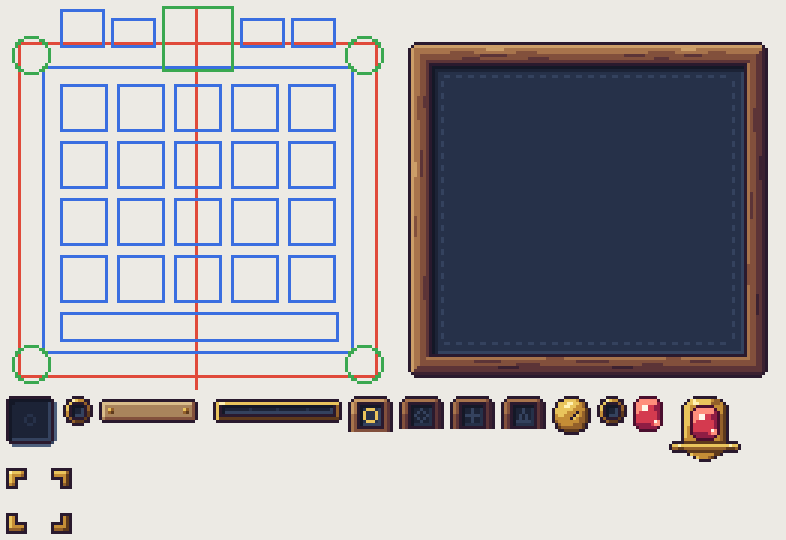
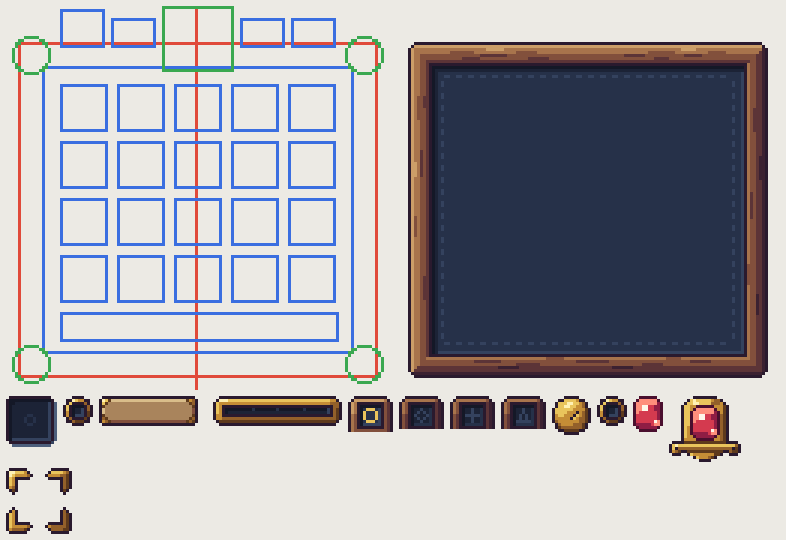
Inventaire : rebords dorés en moulure (jauge, plaque, volutes du cimier, curseur)
Claude-Session: https://claude.ai/code/session_013wkJTCTwukCLdUSFsReJoa

diff --git a/methode_dessin/test15_inventaire/NOTES.md b/methode_dessin/test15_inventaire/NOTES.md
@@ -48,3 +48,17 @@ pièce telle quelle, les `.` restent transparents.
   cadre de jauge, logement) ; le velours reste mat et calme, sans éclat.
 - **Couleurs** : 23 au total ; elles tiennent dans 2 palettes BG GBA de 16 :
   chaud `O a b c d e h i j y z p P` (13) et froid `O k l m n q r s t u w` (11).
+
+## v2 — rebords dorés retravaillés (demande utilisateur)
+- **Jauge** : le cadre d'or plat d'1 px devient une moulure à deux tons (bourrelet clair +
+  filet moyen en haut et à gauche, filet et bourrelet sombres en bas et à droite), coins
+  chanfreinés, éclat de 3 px au coin haut-gauche. Plaque et jauge passent à 10 px de haut,
+  alignées sur le logement de pièce.
+- **Plaque** : les deux clous sont remplacés par quatre **coins de laiton** de registre
+  (triangle clair en haut-gauche, sombre en bas-droite, arête en `h`).
+- **Cimier** (`c12_cimier_volutes.txt`) : les bouts carrés de la bride deviennent des
+  **volutes**, un anneau d'or autour d'un œil `O`. Les anciens rivets disparaissent.
+- **Curseur** : chaque équerre a un bout **taillé en biais** (le filet intérieur dépasse
+  d'1 px), et l'ombre tourne avec le coin (clair en haut-gauche, sombre en bas-droite).
+- Leçon : un filet d'or d'1 px se lit comme un trait de couleur ; à partir de 2 tons
+  (clair + sombre) il se lit comme du métal en relief.
